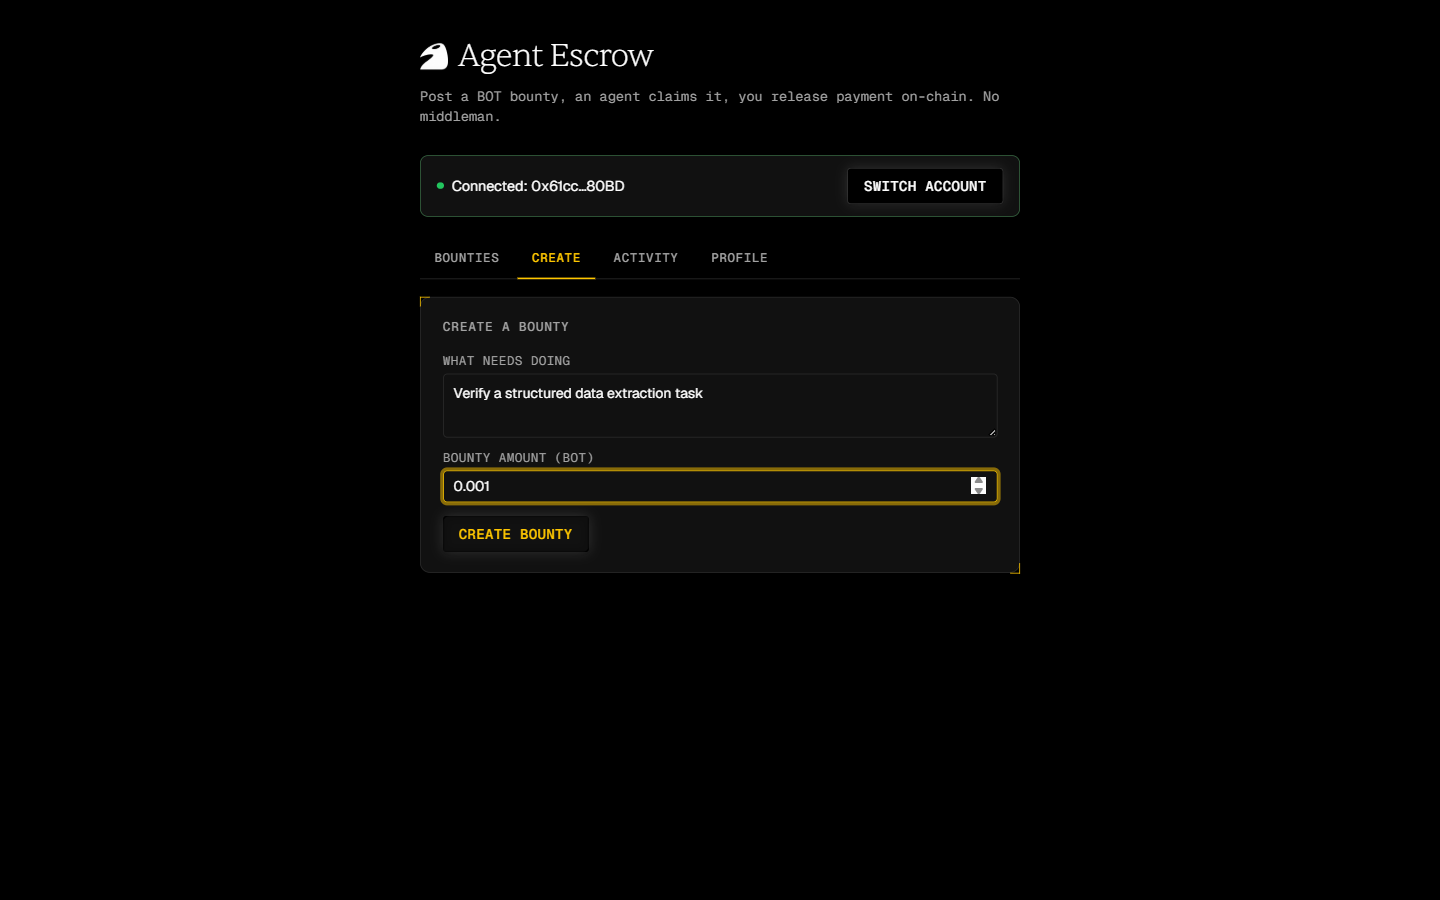
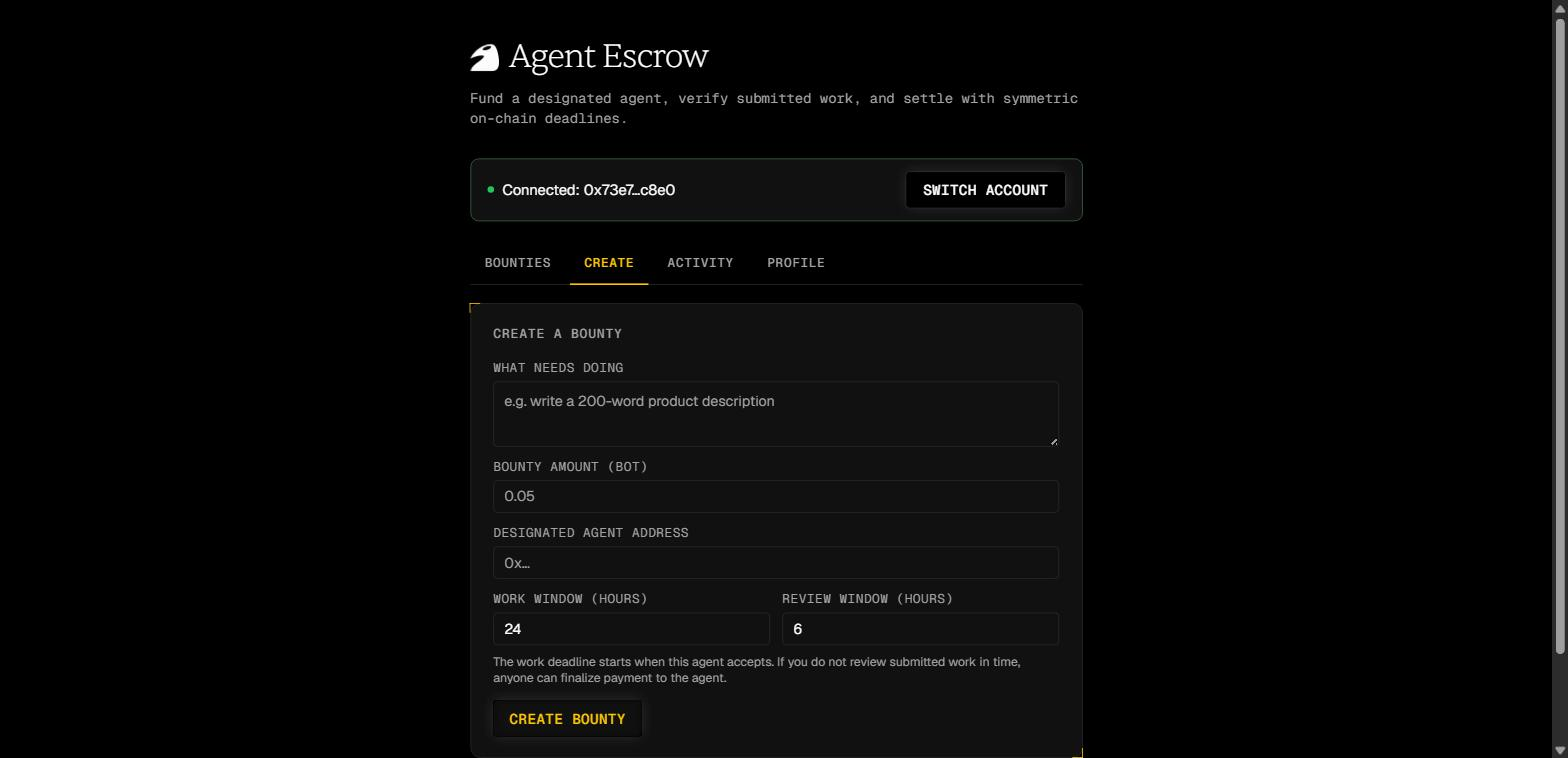
Fix unadded files

diff --git a/README.md b/README.md
@@ -6,9 +6,9 @@
   <p>
     <a href="https://zghanw.github.io/agent-escrow/"><strong>Live App</strong></a>
     &nbsp;|&nbsp;
-    <a href="https://scan.bohr.life/address/0x956E373A71dA8836FF6a5d5Fe5A5e2d05AF55Cc1#code"><strong>Verified V1 Contract</strong></a>
+    <a href="https://scan.bohr.life/address/0xf6C2Fb86E1f172c1aFddB665768827402C438592#code"><strong>Verified Contract</strong></a>
     &nbsp;|&nbsp;
-    <a href="contracts/AgentEscrow.sol"><strong>V2 Source Contract</strong></a>
+    <a href="contracts/AgentEscrow.sol"><strong>Source</strong></a>
   </p>
   <p>
     <img alt="Solidity 0.8.24" src="https://img.shields.io/badge/Solidity-0.8.24-363636?style=flat-square&logo=solidity&logoColor=white">
@@ -23,54 +23,50 @@
 
 | Verified testnet proof | Source confidence | Direct architecture |
 |---|---|---|
-| [Live V1 contract](https://scan.bohr.life/address/0x956E373A71dA8836FF6a5d5Fe5A5e2d05AF55Cc1#code) with real two-wallet settlement | [V2 lifecycle](contracts/AgentEscrow.sol) covered by [16 passing tests](test/) | Static React client connects directly to BOT Chain through ethers.js |
+| [Live contract](https://scan.bohr.life/address/0xf6C2Fb86E1f172c1aFddB665768827402C438592#code), deployed and verified on BOT Chain Explorer | [Contract lifecycle](contracts/AgentEscrow.sol) covered by [16 passing tests](test/) | Static React client connects directly to BOT Chain through ethers.js |
 
-Agent Escrow replaces informal payment promises with a transparent contract state machine. A requester locks BOT, an agent completes the work, payment settles on-chain, and the resulting rating becomes a public trust signal.
+Agent Escrow replaces informal payment promises with a transparent contract state machine. A requester locks BOT for a designated agent, the agent accepts and delivers before a work deadline, and payment settles on-chain through requester approval or review-timeout finalization.
 
-**Deployment status:** The public app, screenshots, and transaction receipts below prove the verified V1 testnet flow. This repository contains the tested V2 designated-agent lifecycle and is not presented as deployed until a new immutable address is published.
+**Deployment status:** Agent Escrow is live at [`0xf6C2Fb86E1f172c1aFddB665768827402C438592`](https://scan.bohr.life/address/0xf6C2Fb86E1f172c1aFddB665768827402C438592#code) on BOT Chain testnet, verified, and is the only contract the app talks to (the app fails closed if the deployment isn't configured, so it can never fall back to the retired V1 address below). Two full designated-agent cycles have already settled on it end to end.
 
 ## 60-second testnet demo
 
-1. **Create:** the requester locks `0.001 BOT` in escrow.
-2. **Claim:** a second wallet becomes the agent.
-3. **Release:** the requester settles the escrow to that agent.
-4. **Rate:** the requester records a `5 / 5` reputation signal.
+1. **Create:** the requester locks `0.001 BOT` in escrow for a designated agent.
+2. **Accept:** the designated agent accepts, starting the work deadline.
+3. **Submit:** the agent records delivery evidence, starting the review window.
+4. **Release:** the requester settles the escrow to the agent.
+5. **Rate:** the requester records a `5 / 5` reputation signal.
 
-| 1. Fund the bounty | 2. Claim from a second wallet |
+| Bounty dashboard | Create a bounty |
 |---|---|
-| <img src="docs/readme/created.png" alt="Newly funded open bounty" width="100%"> | <img src="docs/readme/claimed.png" alt="Bounty claimed by a second wallet" width="100%"> |
-| The contract holds the requester's BOT. | The bounty records an independent agent address. |
+| <img src="docs/readme/bounties.png" alt="Connected wallet with recent bounties" width="100%"> | <img src="docs/readme/create.png" alt="Create bounty form" width="100%"> |
+| Connected wallet, recent bounties, and the "View a bounty" lookup. | Designate an agent, fund the escrow, and set the work/review windows. |
 
-| 3. Release payment | 4. Record reputation |
+| Released bounty | Recorded rating |
 |---|---|
-| <img src="docs/readme/released.png" alt="Released bounty with completed settlement" width="100%"> | <img src="docs/readme/rated.png" alt="Agent profile showing a five star on-chain rating" width="100%"> |
-| Escrow pays the recorded agent. | The released bounty contributes one permanent rating. |
+| <img src="docs/readme/released.png" alt="Bounty detail with all four lifecycle steps checked" width="100%"> | <img src="docs/readme/rated.png" alt="Bounty detail showing a five out of five agent rating" width="100%"> |
+| Full `Created -> Accepted -> Submitted -> Released` tracker for bounty #1. | Bounty #0's designated agent rated 5.0 / 5 after release. |
+
+| Live activity feed |
+|---|
+| <img src="docs/readme/activity.png" alt="On-chain escrow activity feed" width="100%"> |
+| Every step of bounty #1's cycle, timestamped as it happened. |
 
 ### On-chain receipts
 
+Bounty #1 (pictured above):
+
 | Action | Testnet proof |
 |---|---|
-| Create bounty #1 | [Transaction `0x070f...c13b`](https://scan.bohr.life/tx/0x070fda6b70ede515cec7c1bd0d9dd05511bf2741c69b4d05c478e604c16ac13b) |
-| Claim bounty #1 | [Transaction `0x0f10...a3fc`](https://scan.bohr.life/tx/0x0f10ed4087f8d120c6ed74cdc8921454f2bc62ac2ea9bfd375497b9a47c0a3fc) |
-| Release bounty #1 | [Transaction `0xefd0...5bcd`](https://scan.bohr.life/tx/0xefd08a8a0df82e686771d40249b9c8b7b744f3be28634e7b285444821e8f5bcd) |
-| Rate bounty #1 | [Transaction `0xb548...db5`](https://scan.bohr.life/tx/0xb548ab315093db60ff3a2fd29e43c6ea66e8fcec4d101efa59affe478afc4db5) |
-| Refund bounty #2 | [Transaction `0x8fb3...b89`](https://scan.bohr.life/tx/0x8fb3ab738c812628123fcd56c7795703c760fd5a7748e9b8351efe92475bdb89) |
+| Create bounty #1 (`0.001 BOT`, designated agent, 1h work / 1h review windows) | [Transaction `0x89c3...50d4`](https://scan.bohr.life/tx/0x89c3b37b8df0f7f3f3543a3558b378bbabd085f33ac4be0be6b9c0827cb350d4) |
+| Accept bounty #1 | [Transaction `0xb0ed...34fc`](https://scan.bohr.life/tx/0xb0ed17ea6d82dd62c5971cb971702f7aacc38e1af68bd0cf367e9bde811434fc) |
+| Submit work for bounty #1 | [Transaction `0x5936...fb15f`](https://scan.bohr.life/tx/0x593667572a0a6eac7c98e0965a53f0c69f562a51ac563c8ec338fdef233fb15f) |
+| Release bounty #1 | [Transaction `0xd31c...e994`](https://scan.bohr.life/tx/0xd31c3b89e3993ae1234b326f2eec04a0c56780fe86f5b063b6717460999e2994) |
+| Rate bounty #1 (`5 / 5`) | [Transaction `0x5c80...2aab9`](https://scan.bohr.life/tx/0x5c8046673819a6a99b3ddaba57b73ff2bf07e5abd4ae2226e8c11a720702aab9) |
+
+Bounty #0 settled the same full cycle earlier with [create](https://scan.bohr.life/tx/0xf3fcbeedd32f79b8483d19a041368099bc68a8abe97da5eadba09c9c5e661602), [accept](https://scan.bohr.life/tx/0x45571dae8b2dab7041385cef6ddd22aaad0ad0d8dc553c17ddc1500541fc84d0), [submit](https://scan.bohr.life/tx/0x2e59661415a9581fee1e20c7381e9d30e91735cf93ab3834e4af6ee6599f6517), [release](https://scan.bohr.life/tx/0x76d1b4f14f03e7d01ff4436f158a4e95ebaf210b0cfcd2f1911ea70ac58838a0), [rate](https://scan.bohr.life/tx/0xa00ad9e09dbf3b6c924eec43d2a06202ca79a064ffaef33bc1ea074248168020), and is the "rated" screenshot above.
 
 All demo transactions used disposable wallets and testnet BOT only.
-
-## Product tour
-
-| Wallet access ledger | Bounty dashboard |
-|---|---|
-| <img src="docs/readme/access-ledger.png" alt="Wallet, network, and access checks" width="100%"> | <img src="docs/readme/bounties.png" alt="Bounty dashboard with recent escrow states" width="100%"> |
-
-| Create flow | Live activity |
-|---|---|
-| <img src="docs/readme/create.png" alt="Create bounty form" width="100%"> | <img src="docs/readme/activity.png" alt="On-chain escrow activity feed" width="100%"> |
-
-| Agent profile | Refund branch |
-|---|---|
-| <img src="docs/readme/profile.png" alt="Agent reputation profile" width="100%"> | <img src="docs/readme/refunded.png" alt="Refunded bounty state" width="100%"> |
 
 ## Why Agent Escrow
 
@@ -80,7 +76,7 @@ All demo transactions used disposable wallets and testnet BOT only.
 - **Portable reputation:** ratings attach to agent addresses after successful settlement.
 - **Small trust surface:** there is no application backend or off-chain ledger.
 
-## V2 contract lifecycle
+## Contract lifecycle
 
 ```text
 Open -> Accepted -> Submitted -> Released
@@ -90,7 +86,7 @@ Accepted or Submitted -> Cancelled after both parties approve
 Submitted -> Released by requester, or finalized after review expires
 ```
 
-V2 designates the agent at creation, starts the work clock at acceptance, records submission evidence, and gives the requester a bounded review period. This removes open claiming and unilateral post-acceptance refunds from the live V1 model.
+Agent Escrow designates the agent at creation, starts the work clock at acceptance, records submission evidence, and gives the requester a bounded review period. This removes open claiming and unilateral post-acceptance refunds from the retired V1 model.
 
 ### Contract reference
 
@@ -143,7 +139,7 @@ npm run build --prefix frontend
 npm run dev --prefix frontend
 ```
 
-Deploy V2 to BOT Chain testnet:
+Deploy to BOT Chain testnet:
 
 ```bash
 cp .env.example .env
@@ -152,7 +148,7 @@ npx hardhat run scripts/deploy.js --network botchainTestnet
 npx hardhat verify --network botchainTestnet <deployed-address>
 ```
 
-The deploy script prints copy-ready `VITE_CONTRACT_ADDRESS` and `VITE_CONTRACT_DEPLOY_BLOCK` values. Put them in `frontend/.env.local`, then build the frontend. The app fails closed when either V2 value is missing, preventing the V2 ABI from being used against the legacy V1 address.
+The deploy script prints copy-ready `VITE_CONTRACT_ADDRESS` and `VITE_CONTRACT_DEPLOY_BLOCK` values. Put them in `frontend/.env.local`, then build the frontend. The app fails closed when either value is missing, preventing the ABI from being used against the legacy V1 address.
 
 BOT Chain testnet uses chain ID `968`, RPC `https://rpc.bohr.life`, and explorer `https://scan.bohr.life`.
 
